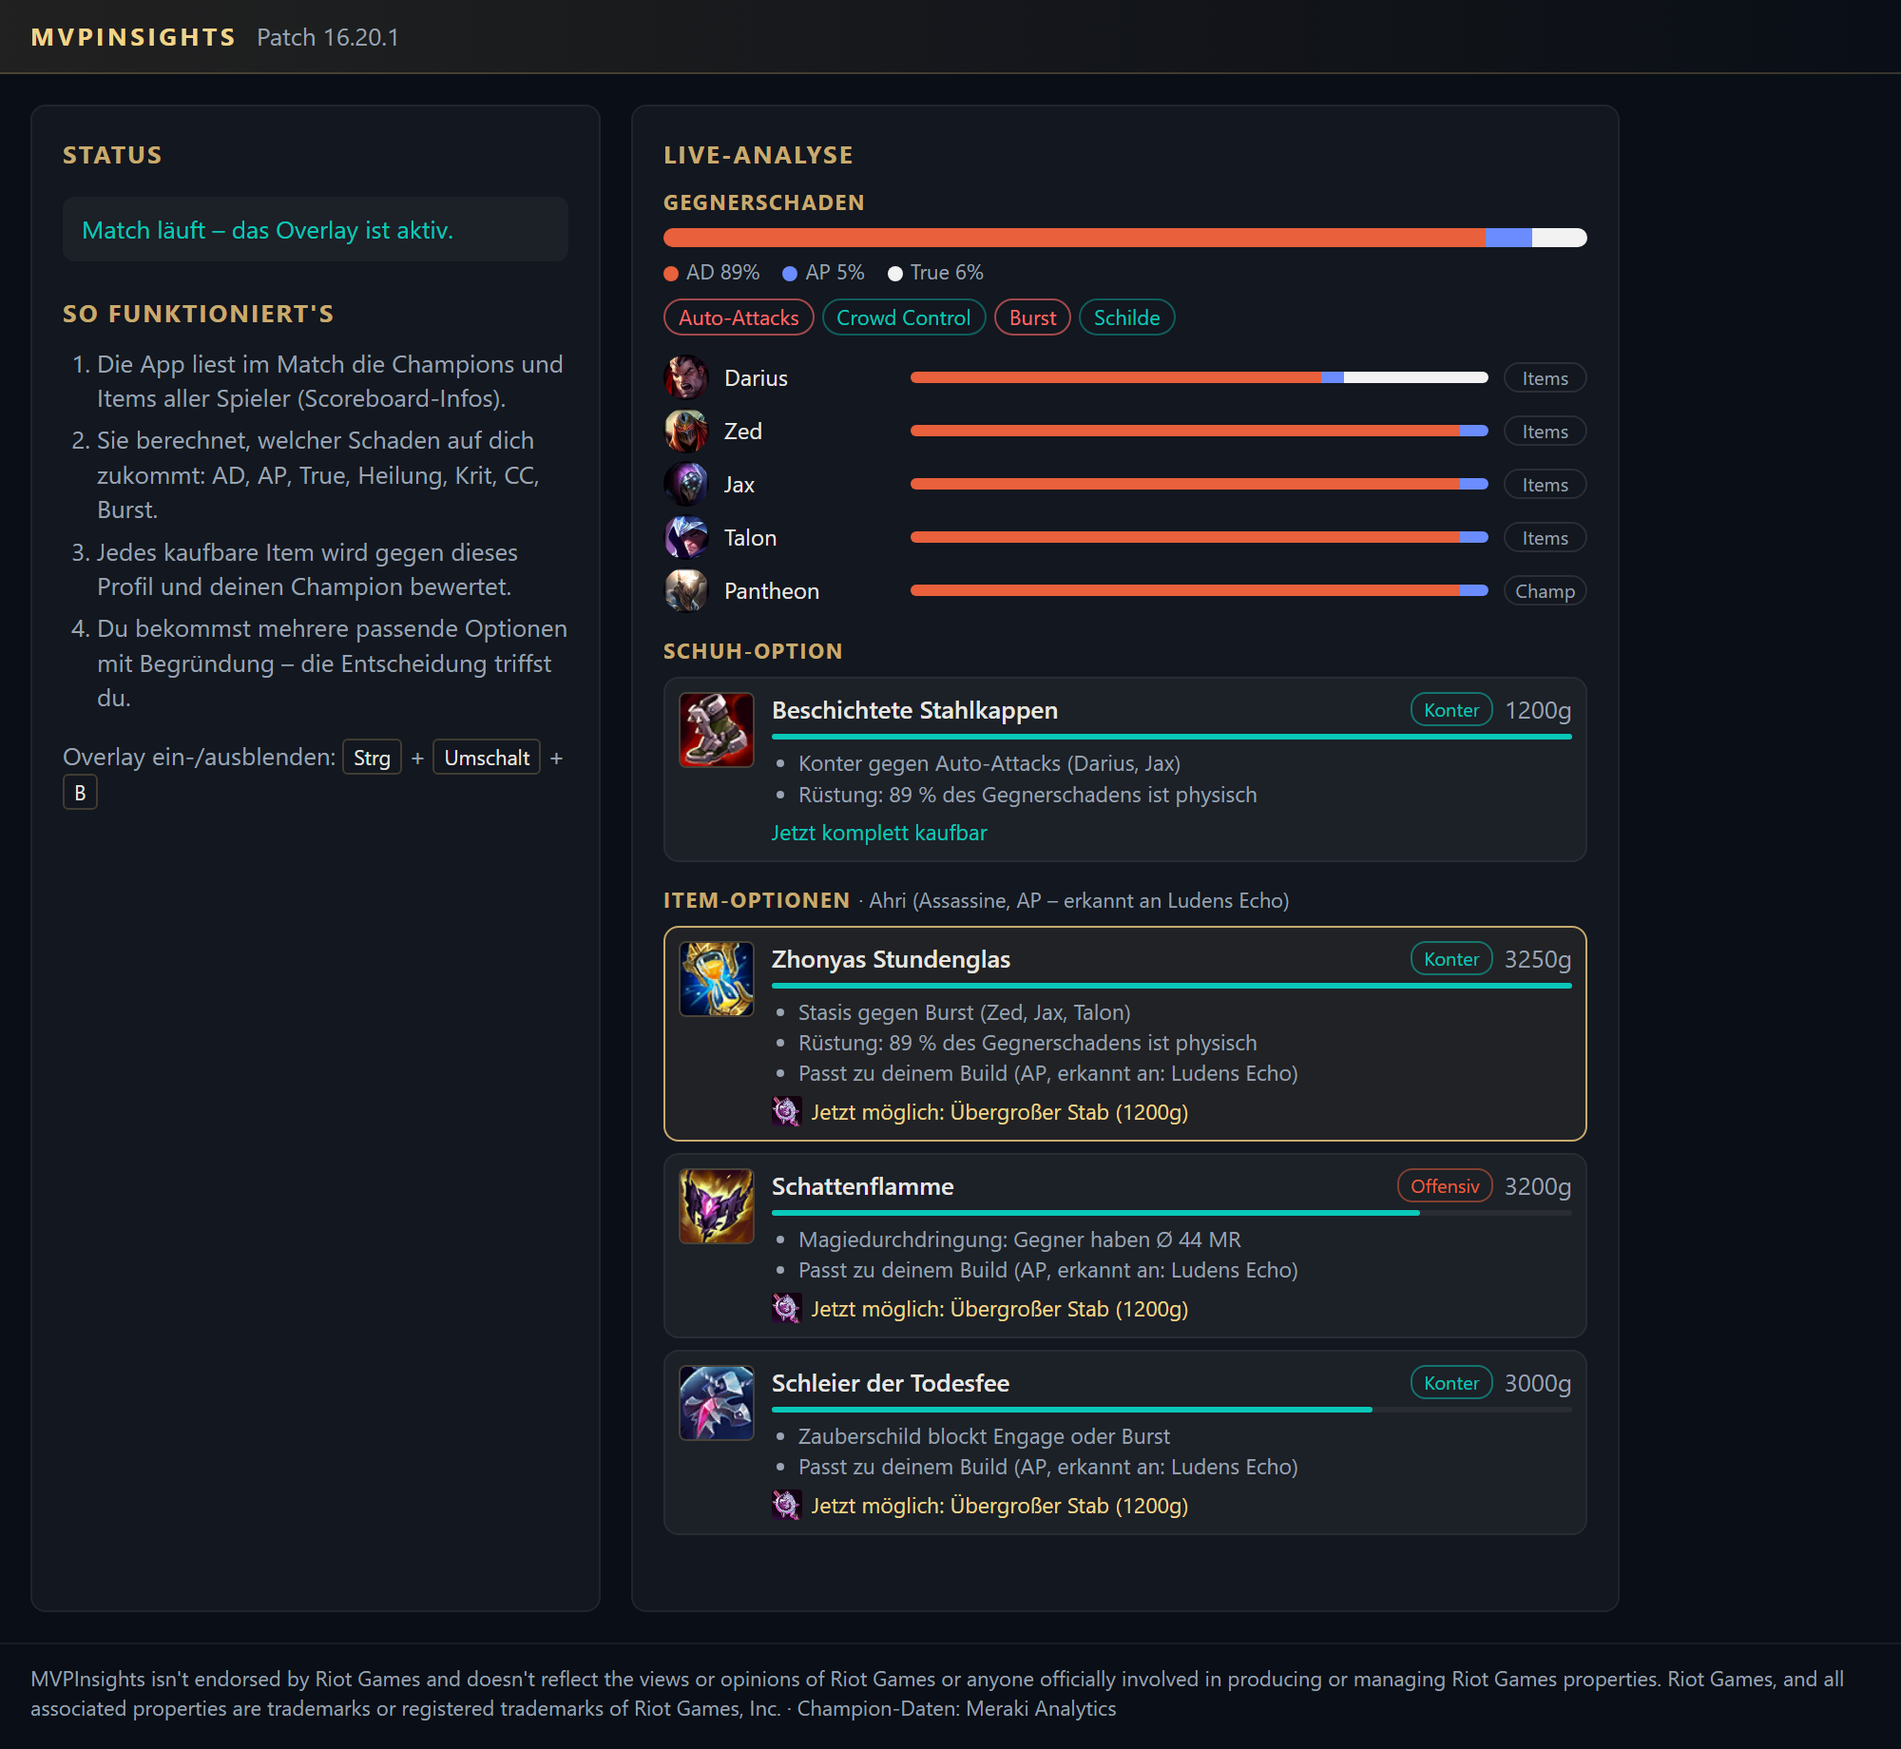
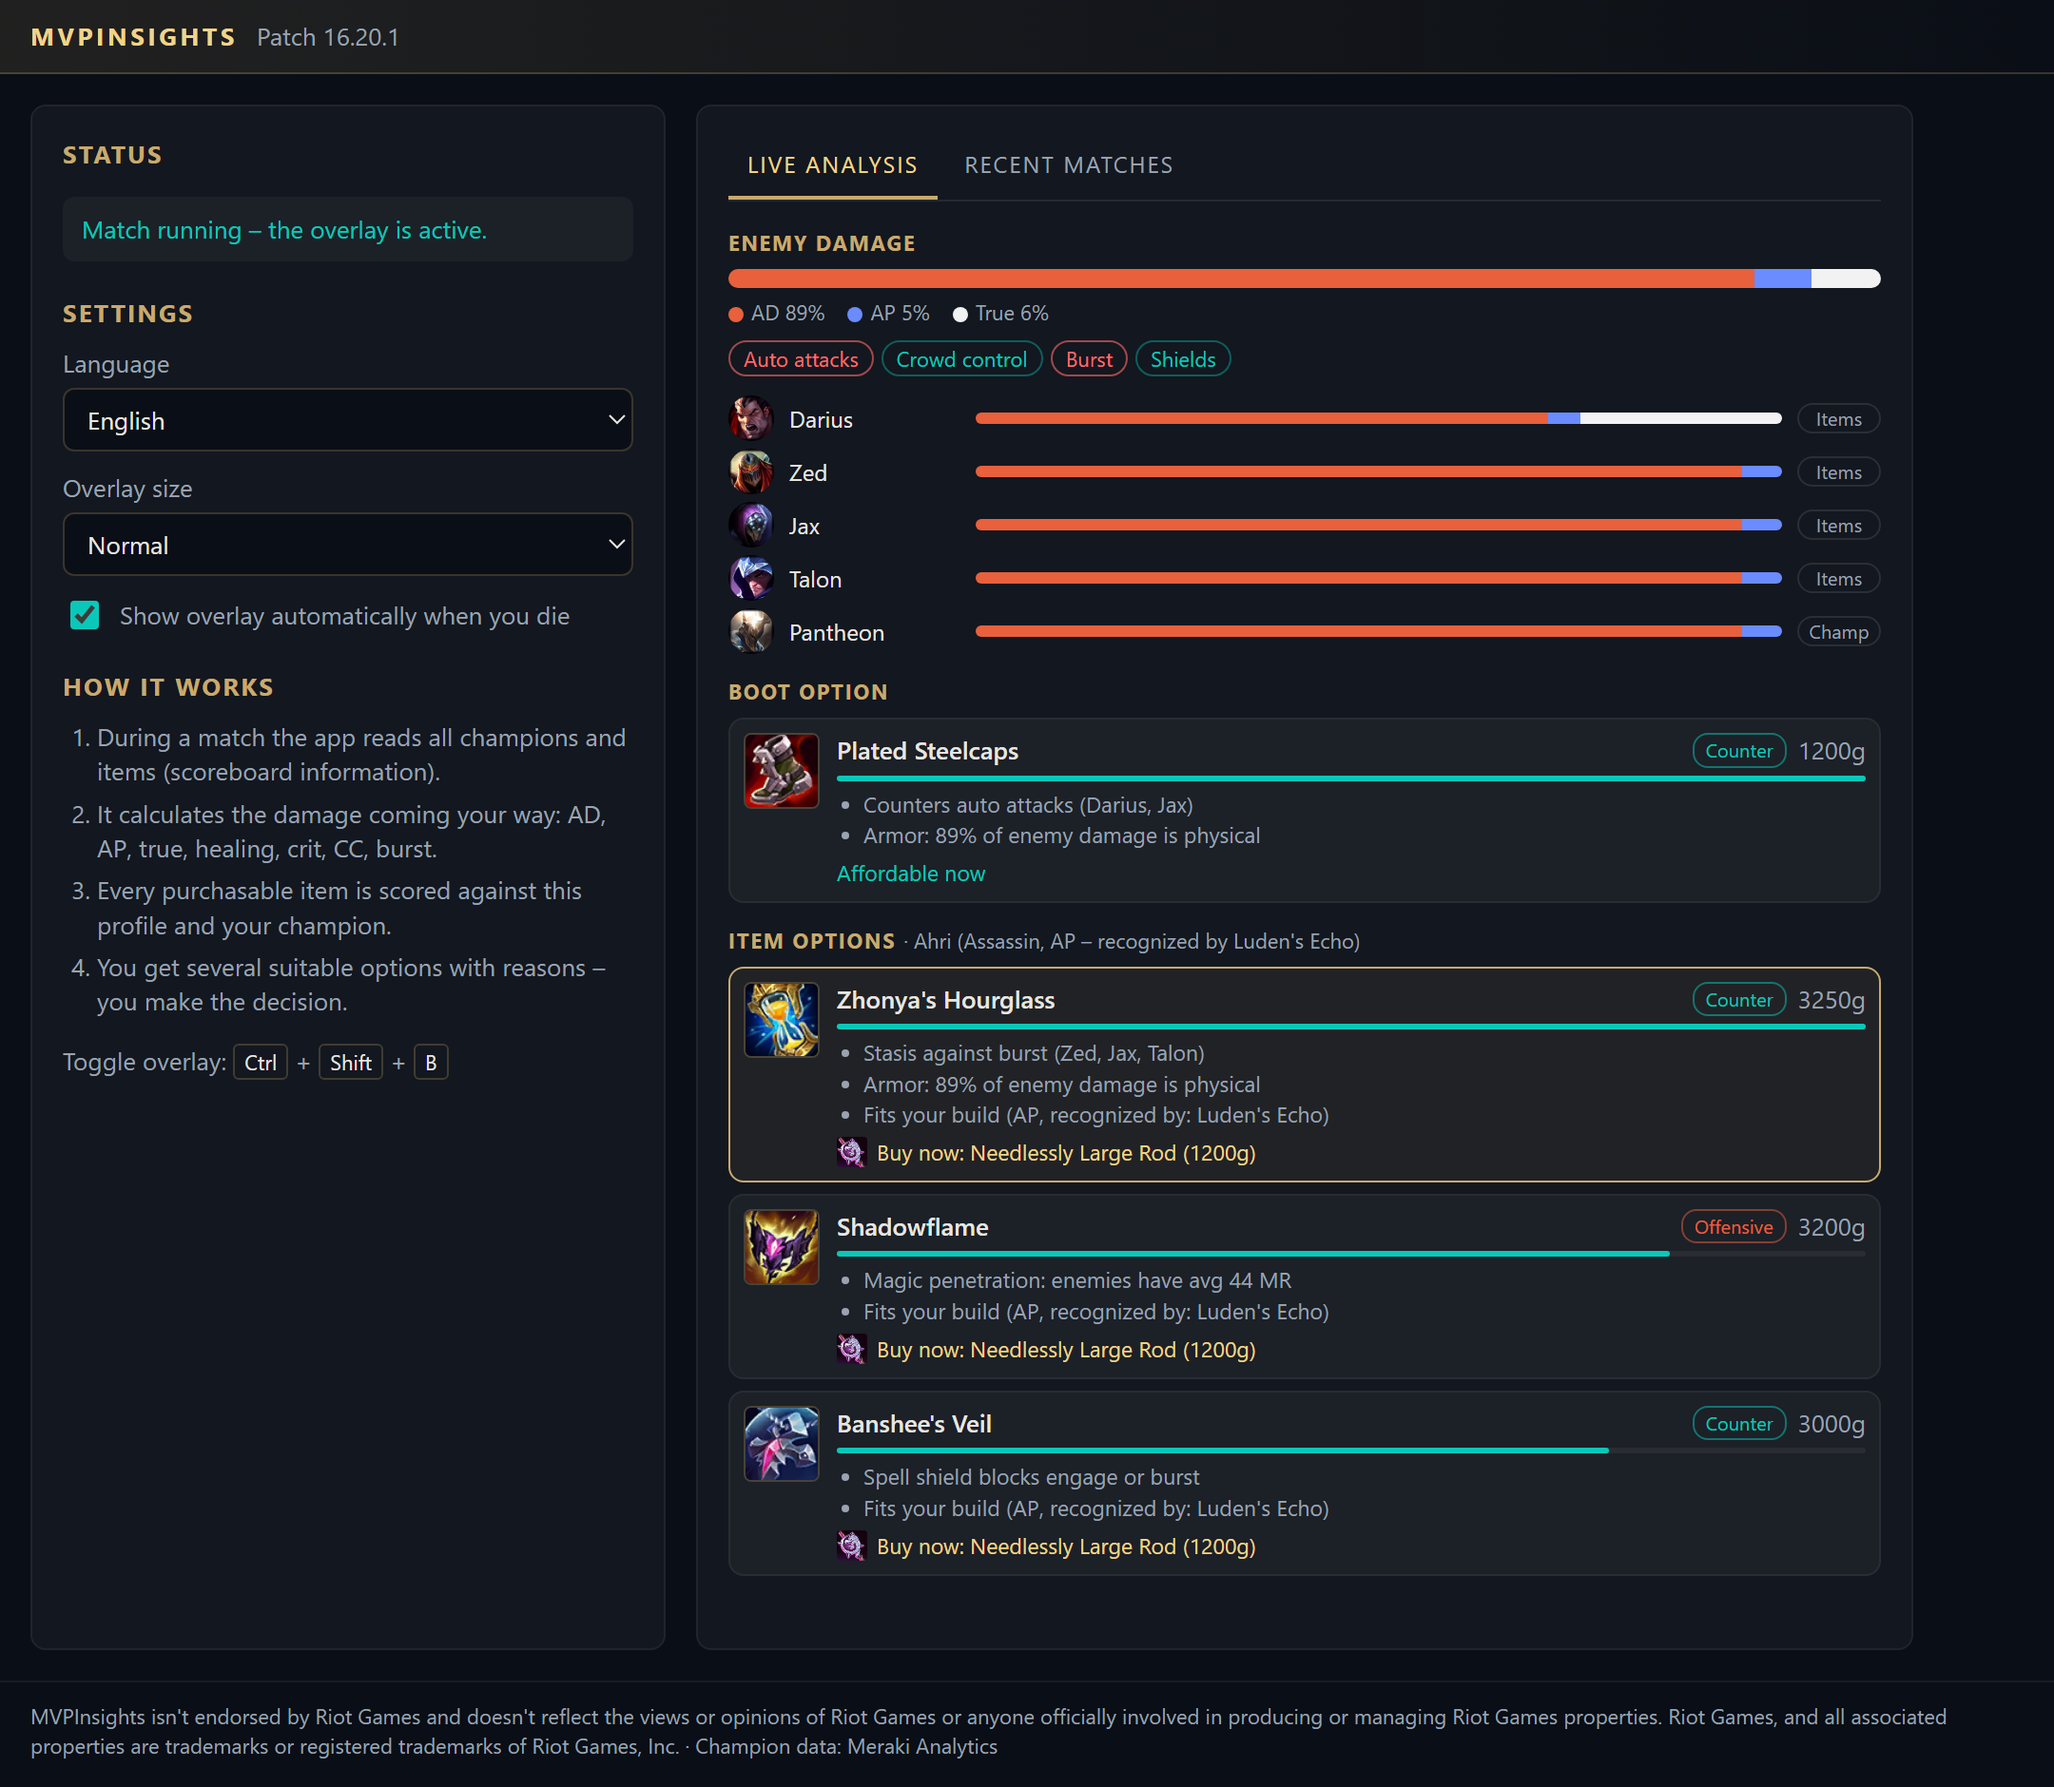
Show English screenshots and post-game review

diff --git a/index.html b/index.html
@@ -43,7 +43,7 @@
     @media (max-width: 760px) { .shots { grid-template-columns: 1fr; } }
     h2 { margin: 0 0 16px; font-size: 14px; letter-spacing: 0.12em; text-transform: uppercase; color: var(--gold); }
     section { margin-bottom: 48px; }
-    .grid { display: grid; grid-template-columns: repeat(auto-fit, minmax(260px, 1fr)); gap: 16px; }
+    .grid { display: grid; grid-template-columns: repeat(auto-fit, minmax(200px, 1fr)); gap: 16px; }
     .card { background: var(--panel); border: 1px solid rgba(255, 255, 255, 0.06); border-radius: 10px; padding: 18px; }
     .card h3 { margin: 0 0 6px; font-size: 17px; }
     .card p { margin: 0; color: var(--dim); font-size: 15px; }
@@ -61,16 +61,16 @@
       <img class="logo" src="icon.png" alt="" />
       <h1>MVPInsights</h1>
       <p class="tagline">Adaptive, explainable item options for League of Legends – based on the enemy team you are actually playing against.</p>
-      <span class="badge">Overwolf app · in development</span>
+      <span class="badge">Overwolf app · in development · English &amp; German</span>
     </header>
 
     <div class="shots">
       <figure>
-        <img class="shot" src="overlay.png" width="1040" height="1280" alt="In-game overlay: enemy damage split and item options with reasons and what you can buy right now" />
+        <img class="shot" src="overlay.png" width="1040" height="1096" alt="In-game overlay: enemy damage split and item options with reasons and what you can buy right now" />
         <figcaption>In-game overlay (toggle with a hotkey)</figcaption>
       </figure>
       <figure>
-        <img class="shot" src="desktop.png" width="2000" height="1840" alt="Desktop window: per-enemy damage analysis, boot option and item options" />
+        <img class="shot" src="desktop.png" width="2160" height="1880" alt="Desktop window: per-enemy damage analysis, boot option and item options" />
         <figcaption>Desktop window with per-enemy analysis</figcaption>
       </figure>
     </div>
@@ -88,9 +88,18 @@
         </div>
         <div class="card">
           <h3>3 · Choose your item</h3>
-          <p>You get several suitable options – defensive, offensive and counter – each with a short reason. You always make the decision.</p>
+          <p>You get several suitable options – defensive, offensive and counter – each with a short reason and what you can afford right now. You always make the decision.</p>
+        </div>
+        <div class="card">
+          <h3>4 · Learn after the match</h3>
+          <p>A post-game review shows how the enemy damage developed and which of your purchases were among the suggested options.</p>
         </div>
       </div>
+    </section>
+
+    <section>
+      <h2>Post-game review</h2>
+      <img class="shot" src="history.png" width="2160" height="1520" alt="Post-game review: enemy damage over time and items bought, marked as suggested option or own choice" />
     </section>
 
     <section>
